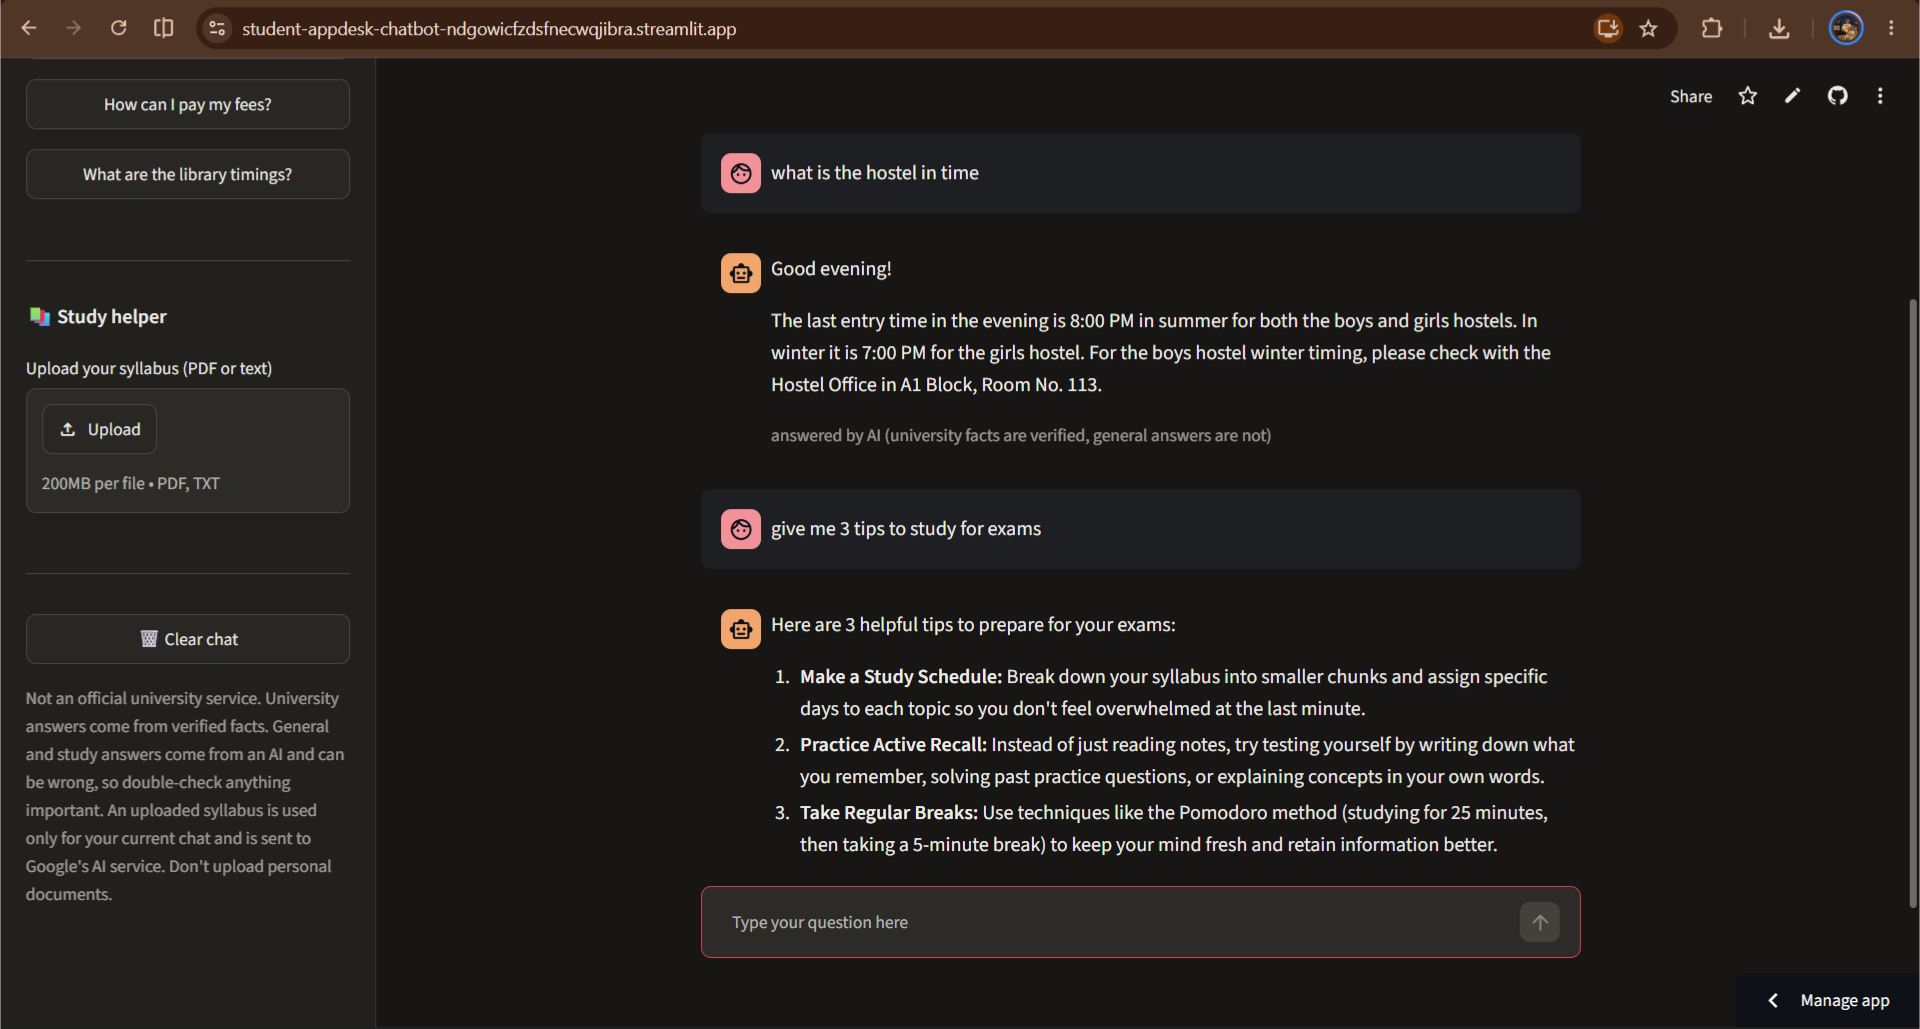
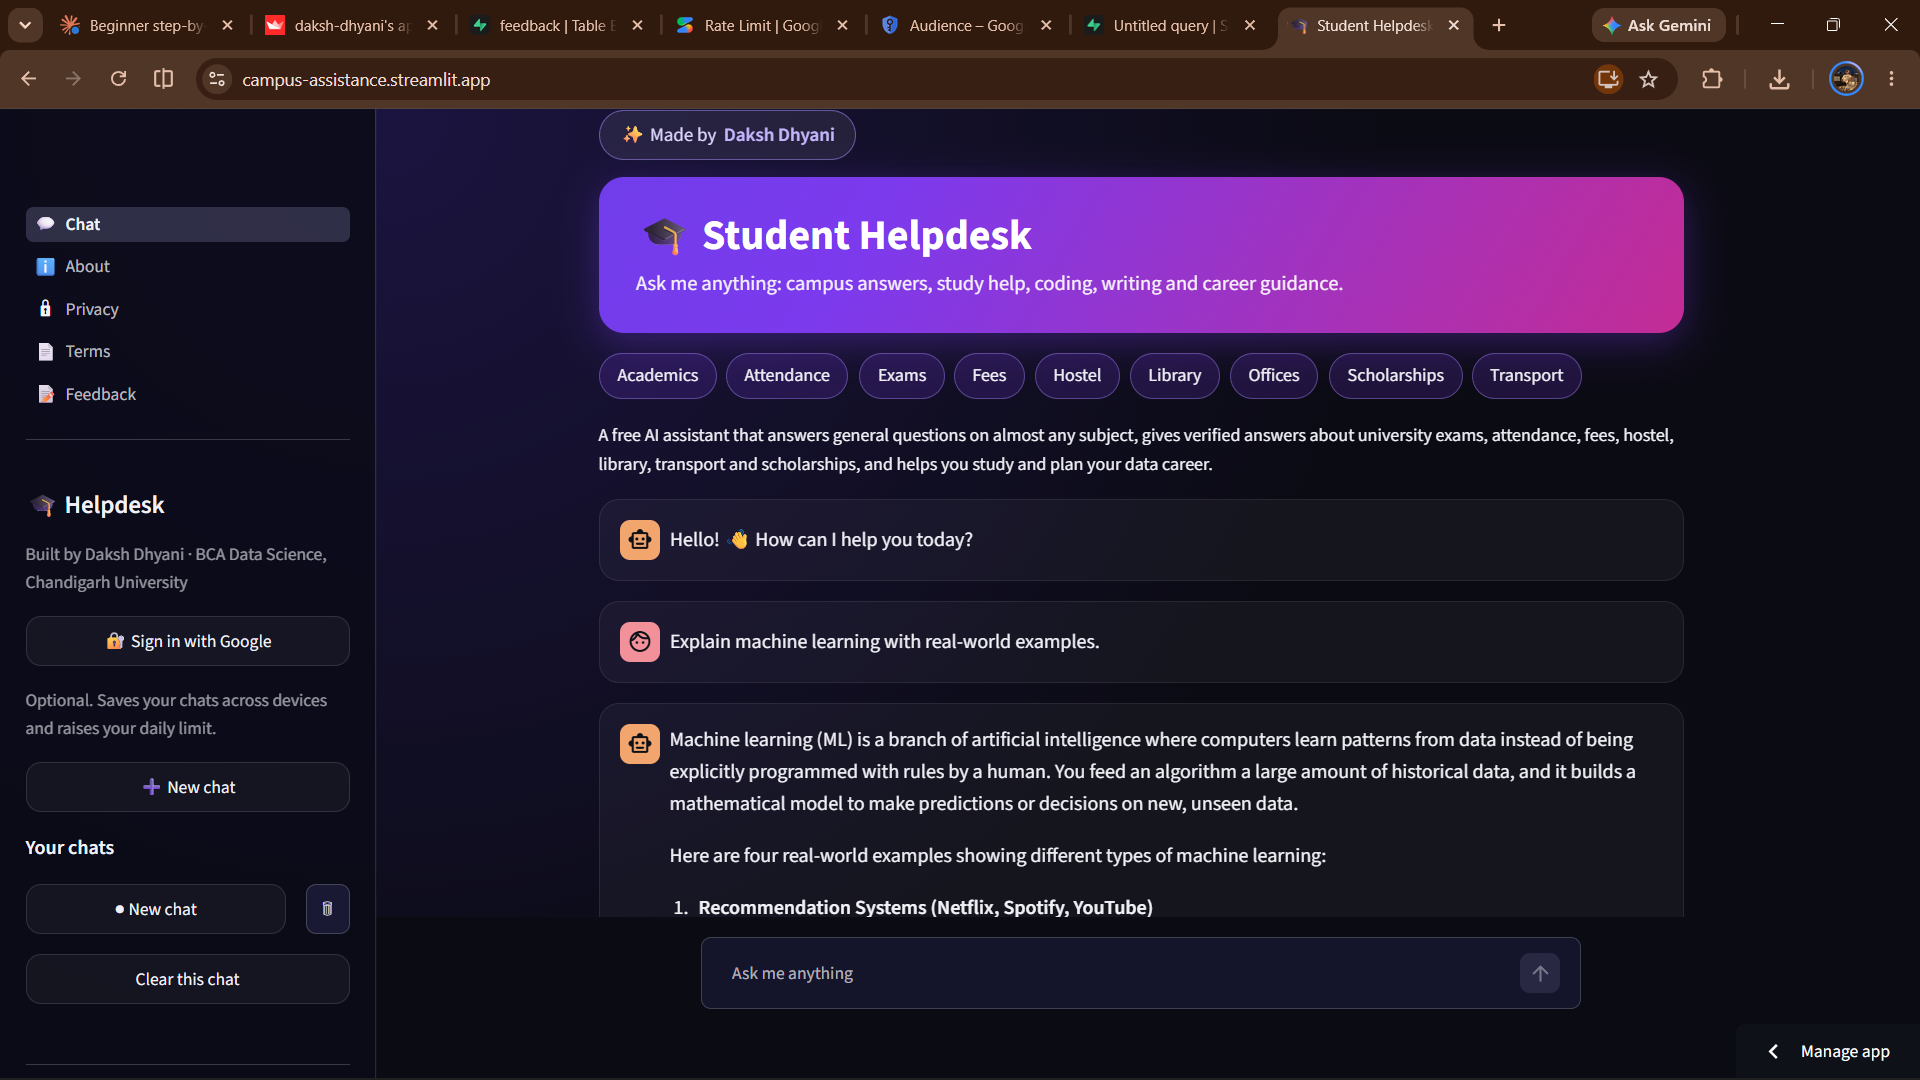
Update README with live link and new screenshot

diff --git a/README.md b/README.md
@@ -1,76 +1,72 @@
 # Student Helpdesk Chatbot
 
-**Live demo:** https://campus-assistance.streamlit.app/
-![Chatbot demo](screenshots/chat_demo.png)
+A free AI assistant for university students. It answers general questions on almost any subject, gives **verified answers** about Chandigarh University (exams, attendance, fees, hostel, library, transport, scholarships), helps students study from an uploaded syllabus, and gives general career guidance for data roles.
 
-An AI helpdesk assistant for university students, built in Python with
-Streamlit. It answers questions about my own university from a knowledge base
-I wrote and verified myself, and it can also answer general questions like a
-normal AI assistant.
+**Live app:** https://campus-assistance.streamlit.app/
 
-> Not an official university service. General answers come from an AI and can
-> be wrong. University answers come only from the verified facts in
-> `data/faq.csv`.
+![Student Helpdesk screenshot](screenshots/chat_demo.png)
 
 ## Features
-- Web chat page with a typing effect and example questions in the sidebar
-- Time-based greeting (Good morning / afternoon / evening, Indian time)
-- Short chat memory, so follow-up questions make sense
-- Verified answers on academics, attendance, exams, fees, hostel, library,
-  offices, scholarships and transport
-- General questions (coding, study help, advice) answered by a Google Gemini
-  model
-- If the AI is busy or unavailable, it falls back to simple matching on the
-  verified answers and says so
-- Study helper: upload a syllabus (PDF or text) and get explanations, a 7-day
-  study plan, practice questions or revision notes based on it. The file is
-  used only for the current chat.
 
-## How it works
-1. **Verified facts:** `data/faq.csv` holds questions, answers and keywords.
-2. **AI layer:** the Gemini model receives the verified facts with strict
-   instructions: for university questions, answer only from those facts and
-   say "not sure" if the answer is not there. Other questions are answered
-   freely.
-3. **Fallback layer:** if the AI call fails, TF-IDF and cosine similarity
-   (scikit-learn) find the closest stored question. Weak matches are
-   rejected, so the bot does not give a wrong answer.
+- **General AI assistant** (Google Gemini): explanations, coding help, writing, study help.
+- **Verified university answers** from `data/faq.csv`, matched with TF-IDF and cosine similarity (scikit-learn). Answers do not come from the AI's memory.
+- **Career guidance** from `data/career_guide.md`, labelled as general industry advice.
+- **Study helper:** upload a syllabus (PDF or text) for study plans, notes and practice questions.
+- **Optional Google sign-in** (Streamlit login). Signed-in users get chats saved across devices (Supabase).
+- **Multiple chats, Copy and Regenerate.**
+- **Usage limits:** per visit, per user per day, and site-wide per day, to stay within free quotas.
+- **Prompt-injection hardening:** user text, chat history and uploads are treated as untrusted data. This reduces the risk, but does not remove it.
+- **Pages:** About, Privacy, Terms and a Feedback form (stored in Supabase).
+
+## Tech stack
+
+Python, Streamlit, scikit-learn, Google Gemini API (`google-genai`), Supabase (REST), Google OAuth (Streamlit `st.login`).
 
 ## Project structure
+
 ```
-student-helpdesk-chatbot/
-├── app.py              Streamlit web app (AI layer and chat page)
-├── src/chatbot.py      rules-based matching (TF-IDF) and terminal version
-├── data/faq.csv        verified questions, answers and keywords
-├── requirements.txt
-└── README.md
+app.py              page navigation
+chat.py             chat page
+site_pages/         About, Privacy, Terms, Feedback
+src/chatbot.py      verified-answer matching
+src/db.py           Supabase access (chats, usage, feedback)
+data/faq.csv        verified university facts
+data/career_guide.md  general career guidance
+requirements.txt
 ```
 
-## Run it locally
-1. Create and activate a virtual environment, then
-   `pip install -r requirements.txt`
-2. Create `.streamlit/secrets.toml` with your own Gemini API key:
-   ```
-   GEMINI_API_KEY = "your-key-here"
-   ```
-   Never commit this file. It is listed in `.gitignore`.
-3. Run `streamlit run app.py`
+## Run locally
 
-Without a key the app still works in rules-only mode.
+```
+pip install -r requirements.txt
+streamlit run app.py
+```
 
-## Add or change answers
-Edit `data/faq.csv`. Each row is `topic,question,answer,keywords`. Put
-answers that contain commas inside double quotes. Add the words students
-might actually type to the keywords column.
+Create `.streamlit/secrets.toml` (never commit it):
+
+```toml
+GEMINI_API_KEY = "your-gemini-key"
+
+[auth]
+redirect_uri = "http://localhost:8501/oauth2callback"
+cookie_secret = "a-long-random-string"
+client_id = "your-google-client-id"
+client_secret = "your-google-client-secret"
+server_metadata_url = "https://accounts.google.com/.well-known/openid-configuration"
+
+[supabase]
+url = "your-supabase-url"
+key = "your-supabase-secret-key"
+```
+
+Without the `[auth]` and `[supabase]` sections the app still runs, without sign-in and saved chats. Saving chats needs three Supabase tables (`conversations`, `usage_log`, `feedback`) and a `bump_usage` function.
 
 ## Limitations
-- Answers reflect what I know about my university and may be out of date.
-  Confirm important details with the college office or CUIMS.
-- General AI answers are not verified and can be wrong.
-- The AI runs on a free Gemini plan, so it can be slow or busy at times.
-- The rules fallback matches words, not meaning.
-- Scanned or photographed PDFs can't be read, only text-based ones.
-- Practice questions are guesses, not the real exam paper.
+
+- Not an official university service. Answers outside the verified facts come from an AI and can be wrong.
+- Live Google Search is not available on the free Gemini quota, so the assistant cannot check current news.
+- The free hosting and free Gemini quota limit how many people can use it at once.
 
 ## Author
-Daksh Dhyani, BCA Data Science (Hons.), Chandigarh University
+
+Daksh Dhyani, BCA (Data Science), Chandigarh University. [GitHub](https://github.com/Daksh-Dhyani)
